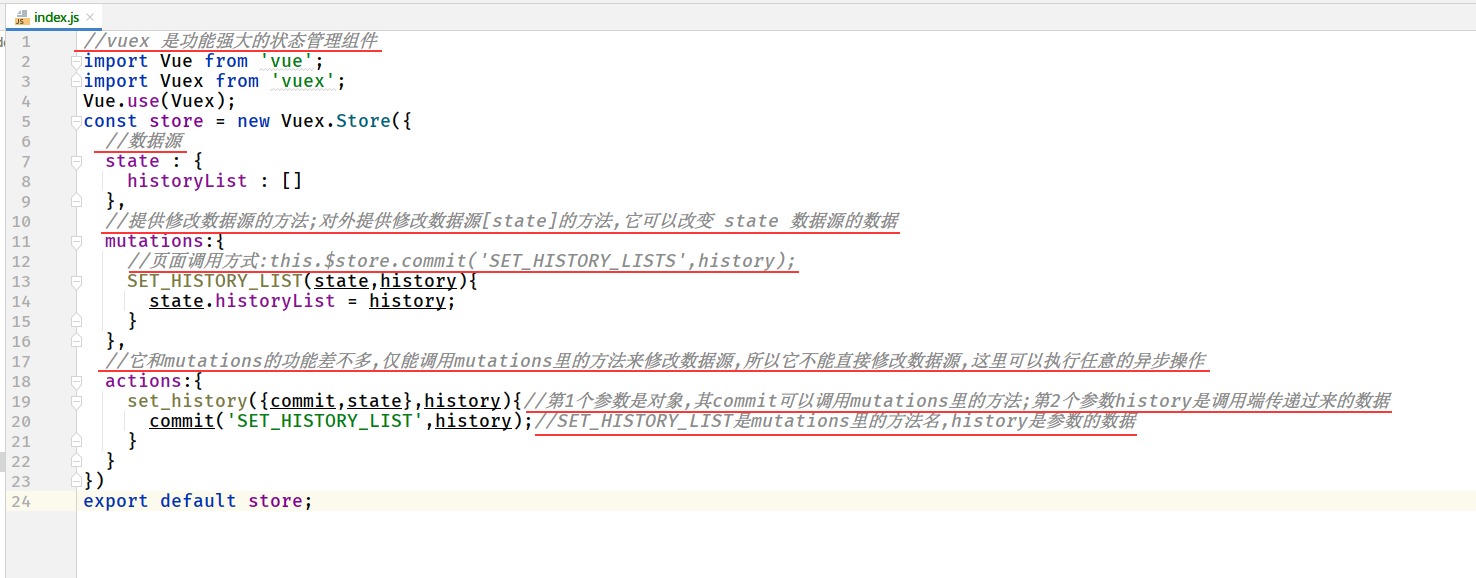
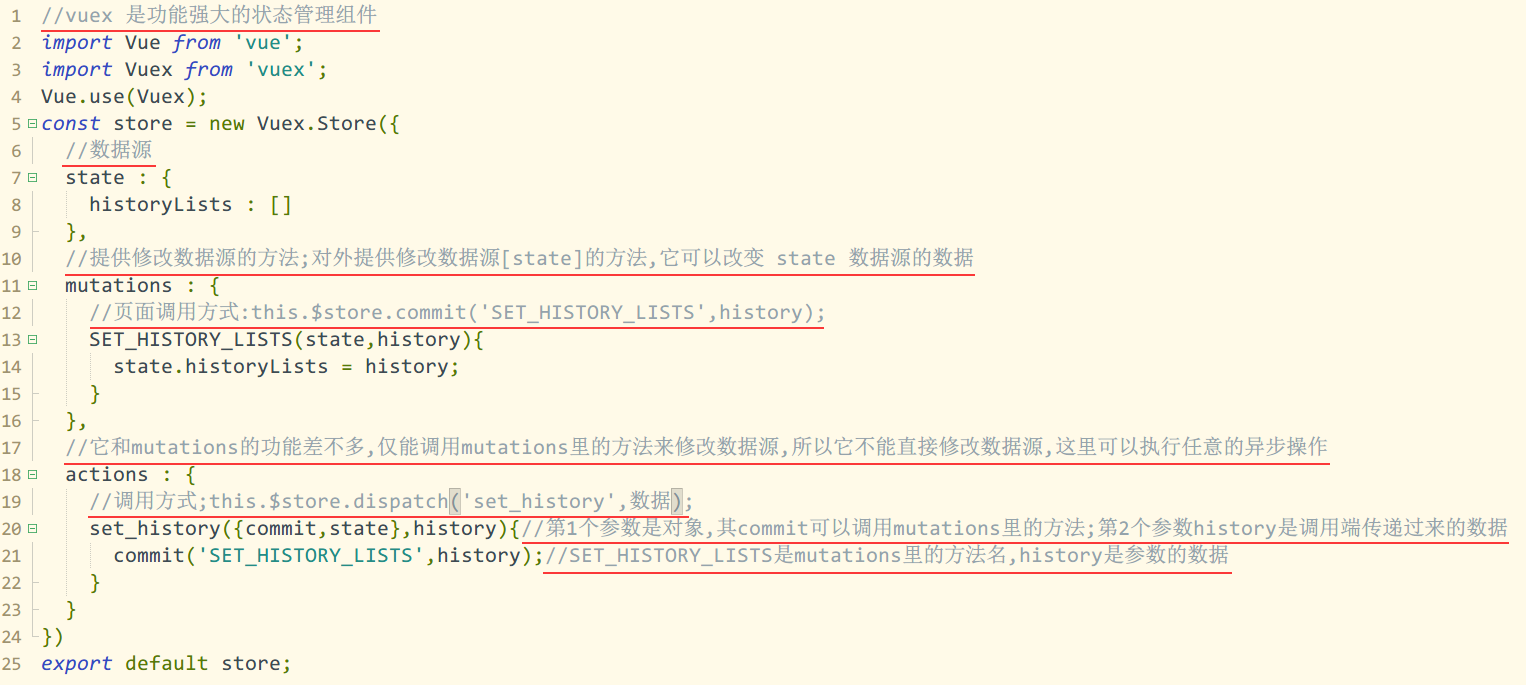
搜索功能正常

Changed region(s): [[0.0, 0.0, 0.9973, 0.9965]]

diff --git a/pages/home-search/home-search.vue b/pages/home-search/home-search.vue
@@ -2,20 +2,24 @@
 	<view class="home">
 		<navbar :isSearch="true" @input="change"></navbar>
     <view class="home-list">
-      <view class="label-box">
+      <view v-if="is_history" class="label-box">
         <view class="label-header">
           <text class="label-title">搜索历史</text>
           <text class="label-clear">清空</text>
         </view>
         <view v-if="historyLists.length > 0" class="label-content">
-          <view class="label-content_item" v-for="(item,index) in historyList" :key="index">
-            {{item}}内容
+          <view class="label-content_item" v-for="(item,index) in historyLists" :key="index">
+            {{item.name}}
           </view>
         </view>
         <view v-else class="no-data">
           没有搜索历史
         </view>
       </view>
+      <!-- 显示搜索结果 -->
+      <list-scroll v-else class="list-scroll">
+        <list-card :item="item" v-for="item in listSearch" :key="item._id"></list-card>
+      </list-scroll>
     </view>
 	</view>
 </template>
@@ -25,15 +29,54 @@
 	export default {
 		data() {
 			return {
+        is_history : true,
+        listSearch : []
 			}
 		},
     //计算数据,主要实时监听vuex里的state数据源状态变化
     computed:{
-      ...mapState(['historyLists'])//参数是数组,其中的 historyList 是定义在 state 里的,而不是上面data的那个
+      ...mapState(['historyLists'])//参数是数组,其中的 historyLists 是定义在 state 里的
     },
-		methods: {
+    //页面是onLoad,组件是created
+    onLoad() {},
+		methods : {
+      //监听输入变化
       change(value){
-        console.info(value)
+        if(!value){
+          clearTimeout(this.timer);
+          this.mark = false;
+          this.get_search(value);
+          return;
+        }
+        //做个标记,请求延时
+        if(!this.mark){
+          this.mark = true;
+          this.timer = setTimeout(()=>{
+            this.mark = false;
+            this.get_search(value);
+          },1000);
+        }
+      },
+      test(){
+        this.$store.dispatch('set_history',{name : 'te0st'});
+      },
+      get_search(value){
+        if(!value){
+          this.listSearch = [];
+          this.is_history = true;
+          return;
+        }
+        this.$api.getSearch({value : value}).then(result =>{
+          const {code,data} = result;
+          this.is_history = false;
+          if(200 === code){
+            this.listSearch = data;
+          }else if(201 === code){
+            this.listSearch = [];
+          }
+        }).catch(err =>{
+          console.info(err);
+        });
       }
 		}
 	}
@@ -49,7 +92,6 @@
     display: flex;
     flex-direction: column;
     flex: 1;
-    border: 1px solid #f00;
     .label-box{
       background-color:#fff;
       margin-bottom:10px;

diff --git a/cloudfunctions-aliyun/get_search/index.js b/cloudfunctions-aliyun/get_search/index.js
@@ -1,0 +1,31 @@
+'use strict';
+//获取数据的引用
+const db = uniCloud.database();
+const aggre = db.command.aggregate;
+exports.main = async (event, context) => {
+  const user_id = event.user_id;
+  const value = event.value;
+  const userInfo = await db.collection('user').doc(user_id).get();
+  const article_likes_ids = userInfo.data[0].article_likes_ids;
+  //使用聚合函数处理,更精细化的处理数据,求和，分组，指定字段
+  const list = await db.collection('article')
+  .aggregate()
+  //在返回的每条数据里追加字段
+  .addFields({
+    is_like : aggre.in(['$_id',article_likes_ids]) //表示当前的某个数组里包含了某个字段,其中的$_id表示的是表的,第二个参数是在要哪一个数组里
+  })
+  .match({
+    title : new RegExp(value)
+  })
+  .project({
+    content : 0
+  })
+  .end();
+  const code = list.data.length > 0 ? 200 : 201;
+	return {
+    code : code,
+    msg : '操作成功',
+    data : list.data,
+    total : list.affectedDocs
+  };
+};

diff --git a/store/index.js b/store/index.js
@@ -16,8 +16,11 @@ const store = new Vuex.Store({
   },
   //它和mutations的功能差不多,仅能调用mutations里的方法来修改数据源,所以它不能直接修改数据源,这里可以执行任意的异步操作
   actions : {
+    //调用方式;this.$store.dispatch('set_history',数据);
     set_history({commit,state},history){//第1个参数是对象,其commit可以调用mutations里的方法;第2个参数history是调用端传递过来的数据
-      commit('SET_HISTORY_LISTS',history);//SET_HISTORY_LISTS是mutations里的方法名,history是参数的数据
+      let list = state.historyLists;
+      list.unshift(history);
+      commit('SET_HISTORY_LISTS',list);//SET_HISTORY_LISTS是mutations里的方法名,history是参数的数据
     }
   }
 })

diff --git a/components/navbar/navbar.vue b/components/navbar/navbar.vue
@@ -106,6 +106,7 @@
 						margin-top: 2px;
 					}
 					.navbar-search_text{
+            width: 100%;
 						font-size: 14px;
 						color: #999;
 					}
